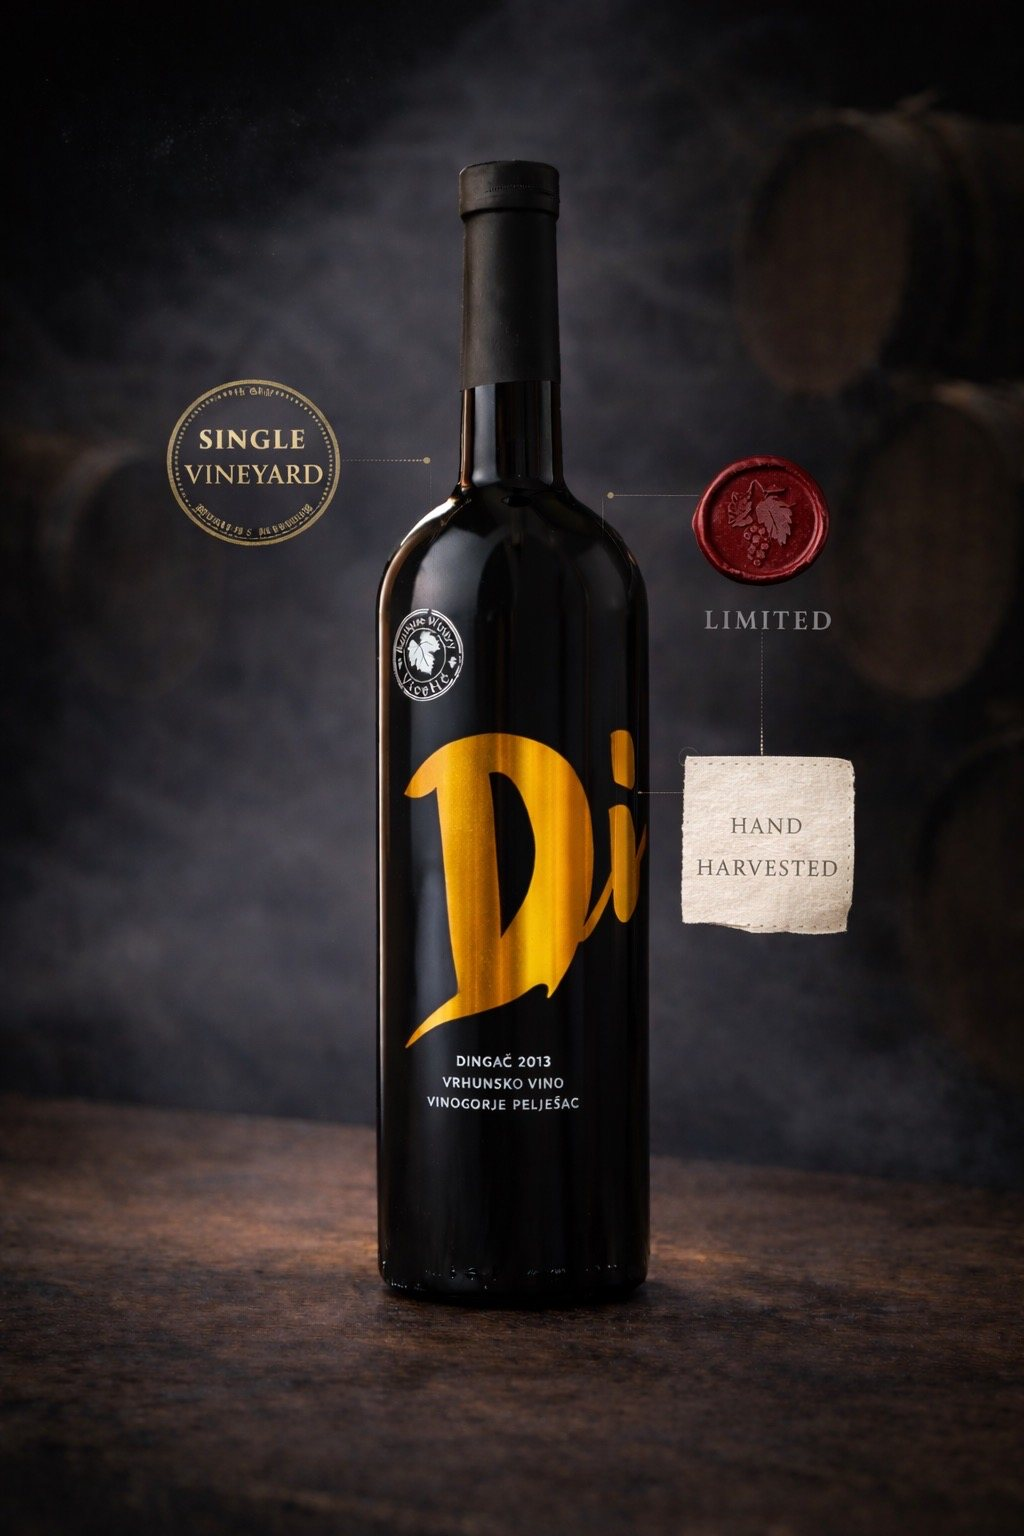
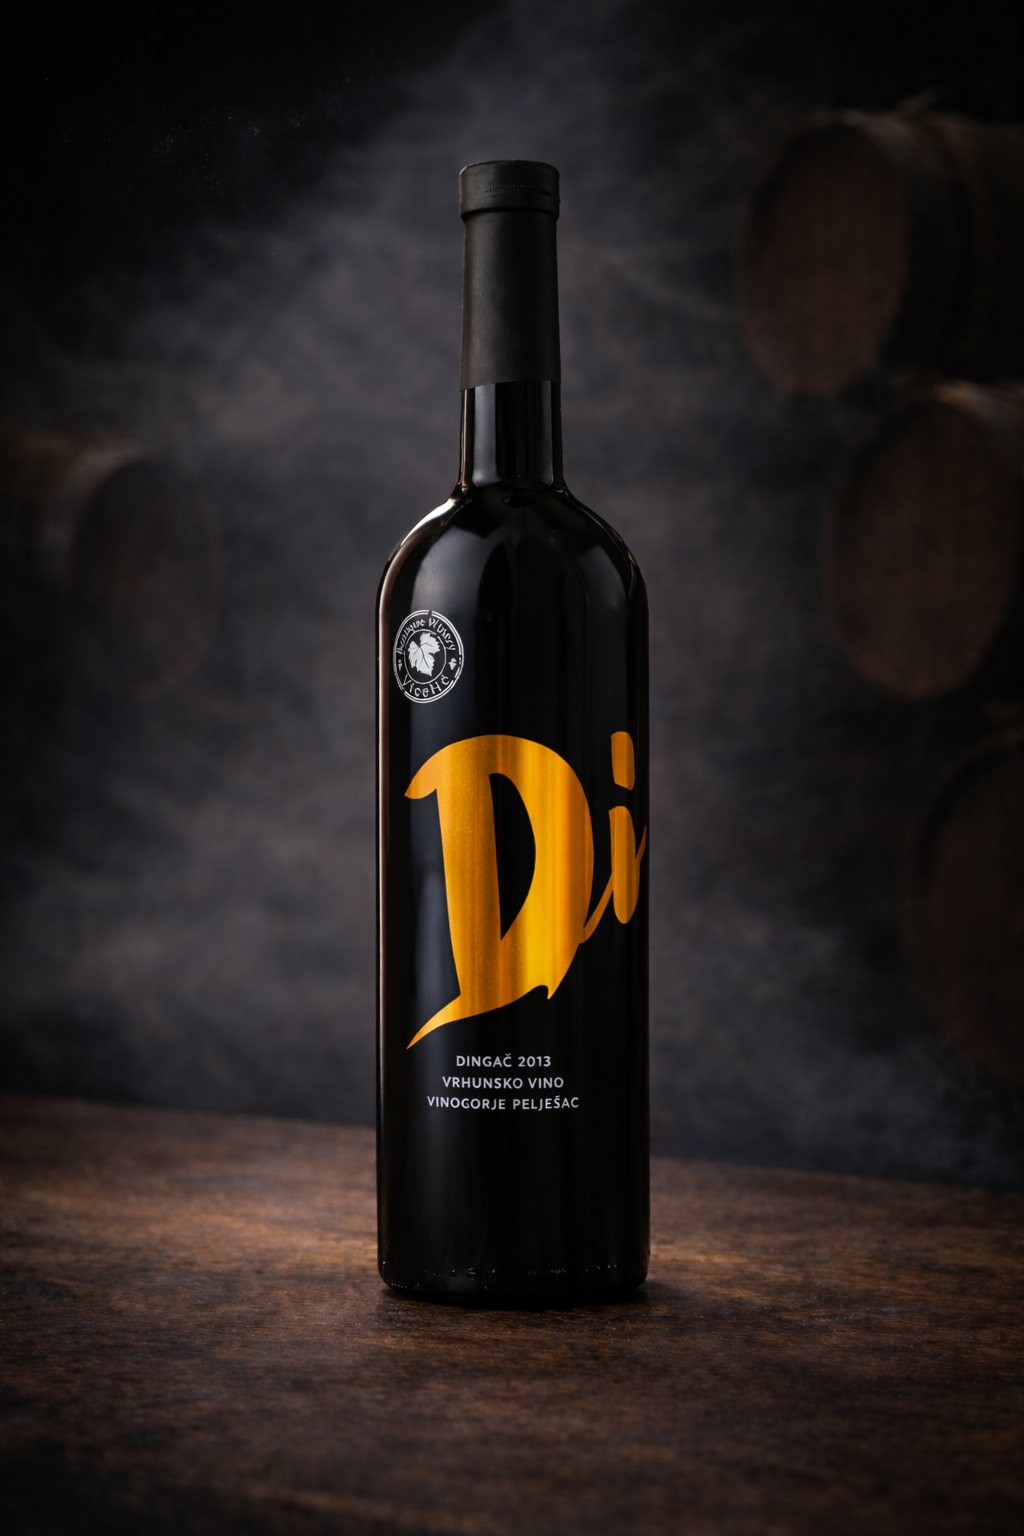
Use the clean Dingač packshot; callout version on the dossier
- New Dingač bottle image (matches the Plavac Mali and Opolo Rosé shots) used
  on the home page, wine list and shop; the version with "single vineyard ·
  limited · hand harvested" callouts moves to the Dingač dossier
- Wines can set an optional dossierSlot
- Also: all uploaded images in use (bottles, gift box, Dingač highlights on the
  shop page), larger bottles on home/shop, Visit page photo pair — flagged in
  CONTENT_TODO for replacement with real packshots before launch

Claude-Session: https://claude.ai/code/session_01BWu2Vo6icp3Aj29RWRZcEw

diff --git a/src/app/[locale]/wines/[slug]/page.tsx b/src/app/[locale]/wines/[slug]/page.tsx
@@ -95,7 +95,7 @@ export default async function Dossier({ params }: PageProps<'/[locale]/wines/[sl
           <div className="lg:col-span-4">
             <div className="lg:sticky lg:top-[calc(var(--nav-h)+2rem)]">
               <Reveal immediate className="relative mx-auto w-1/2 max-w-64 lg:w-full">
-                <ImageSlot id={w.bottleSlot as ImageSlotId} priority sizes="(min-width: 1024px) 25vw, 50vw" />
+                <ImageSlot id={(("dossierSlot" in w && w.dossierSlot) || w.bottleSlot) as ImageSlotId} priority sizes="(min-width: 1024px) 25vw, 50vw" />
                 <Seal text="VICELIĆ · DINGAČ · PELJEŠAC · ORGANIC · " center={no} className="absolute -right-6 -bottom-6 size-24 rotate-[-12deg] text-plavac/70 md:size-28 lg:-right-10" />
               </Reveal>
               <dl className="mt-12 grid grid-cols-2 gap-px bg-basalt/15 font-mono text-sm">

diff --git a/content/image-slots.ts b/content/image-slots.ts
@@ -266,6 +266,18 @@ export const imageSlots = {
     },
     src: '/media/gift-box-dingac.jpg',
   },
+  'dingac-features': {
+    kind: 'image',
+    ratio: '2/3',
+    tone: 'shade',
+    shot: 'Dingač bottle with "single vineyard · limited · hand harvested" callouts. TODO: replace with a real photograph before launch.',
+    light: 'Cellar.',
+    alt: {
+      en: 'A bottle of Vicelić Dingač: single vineyard, limited, hand harvested.',
+      hr: 'Boca vina Vicelić Dingač: jedan položaj, ograničena količina, ručna berba.', // REVIEW
+    },
+    src: '/media/dingac-features.jpg',
+  },
   'dingac-highlights': {
     kind: 'image',
     ratio: '2/3',

diff --git a/content/wines.ts b/content/wines.ts
@@ -12,6 +12,7 @@ export const wines = [
     vintage: 'TBD',
     price: 'TBD',
     bottleSlot: 'bottle-dingac',
+    dossierSlot: 'dingac-features',
     summary: {
       en: 'The estate wine. Old gobelet vines on shallow red soil and white stone, above the sea.',
       hr: 'Vino imanja. Stari trsovi u gobeletu na plitkoj crvenici i bijelom kamenu, iznad mora.', // REVIEW

diff --git a/src/lib/content-schema.ts b/src/lib/content-schema.ts
@@ -35,6 +35,8 @@ export const wineSchema = z.object({
   vintage: z.union([z.number().int(), z.literal('TBD')]),
   price: tbd,
   bottleSlot: z.string().min(1),
+  /** Optional different image for the dossier page. */
+  dossierSlot: z.string().min(1).optional(),
   summary: localized,
   sheet: z.object({
     parcel: localized,
